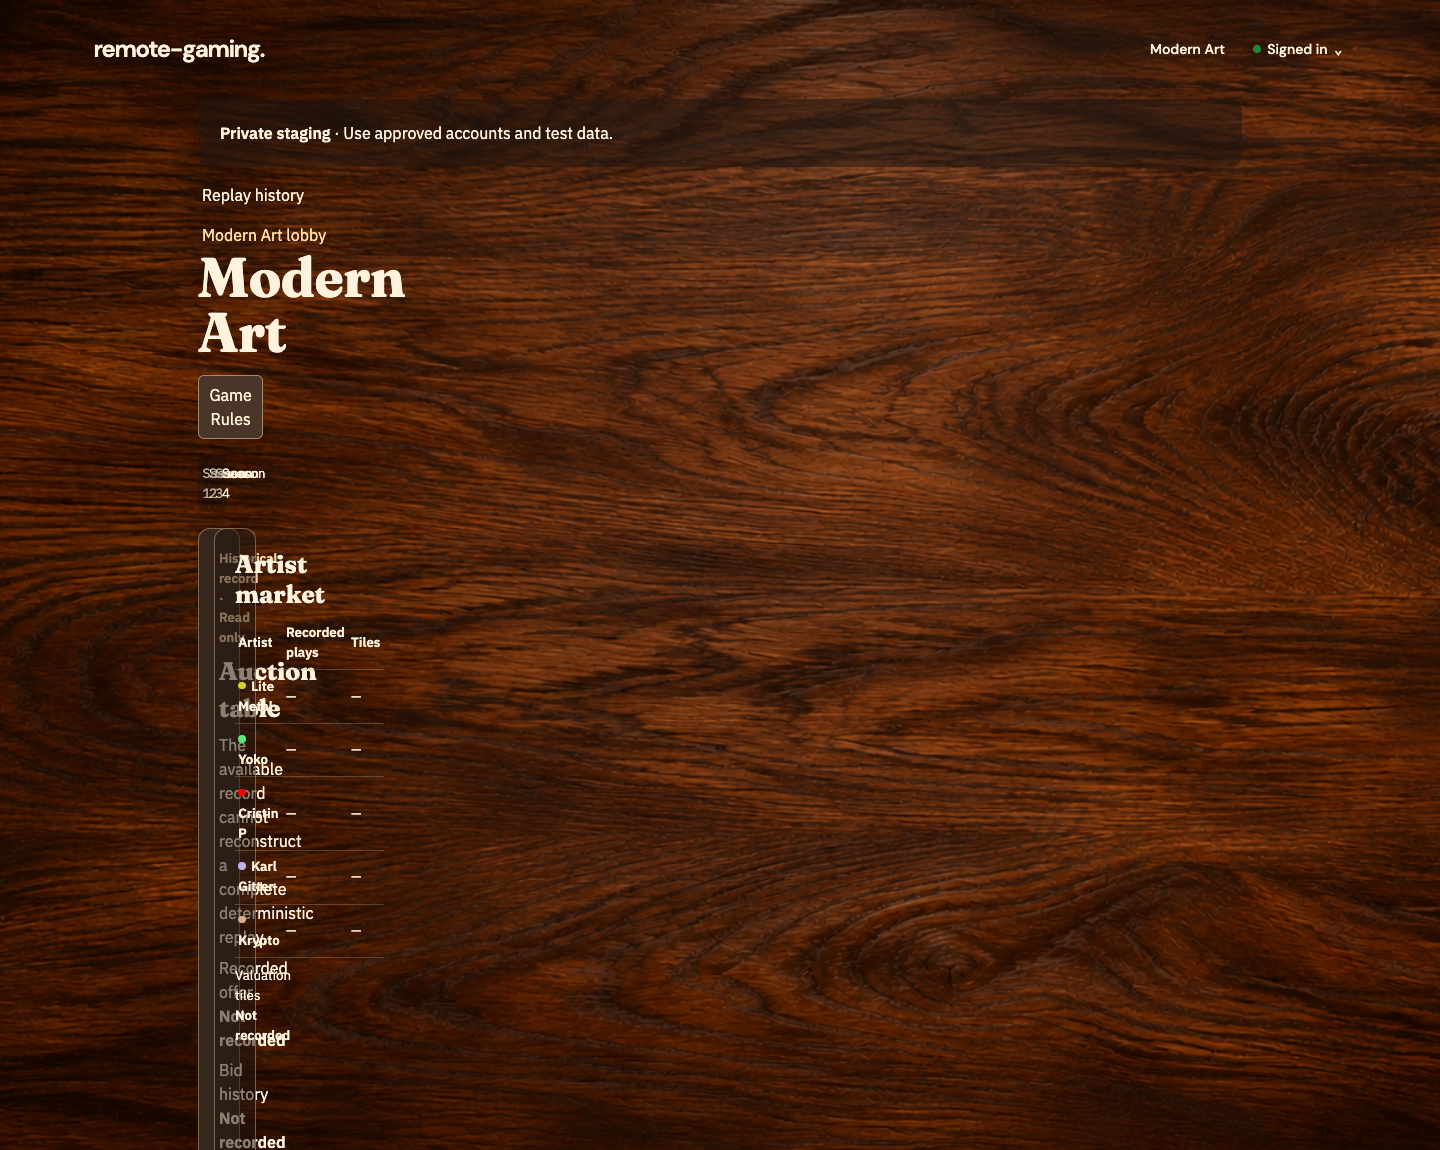
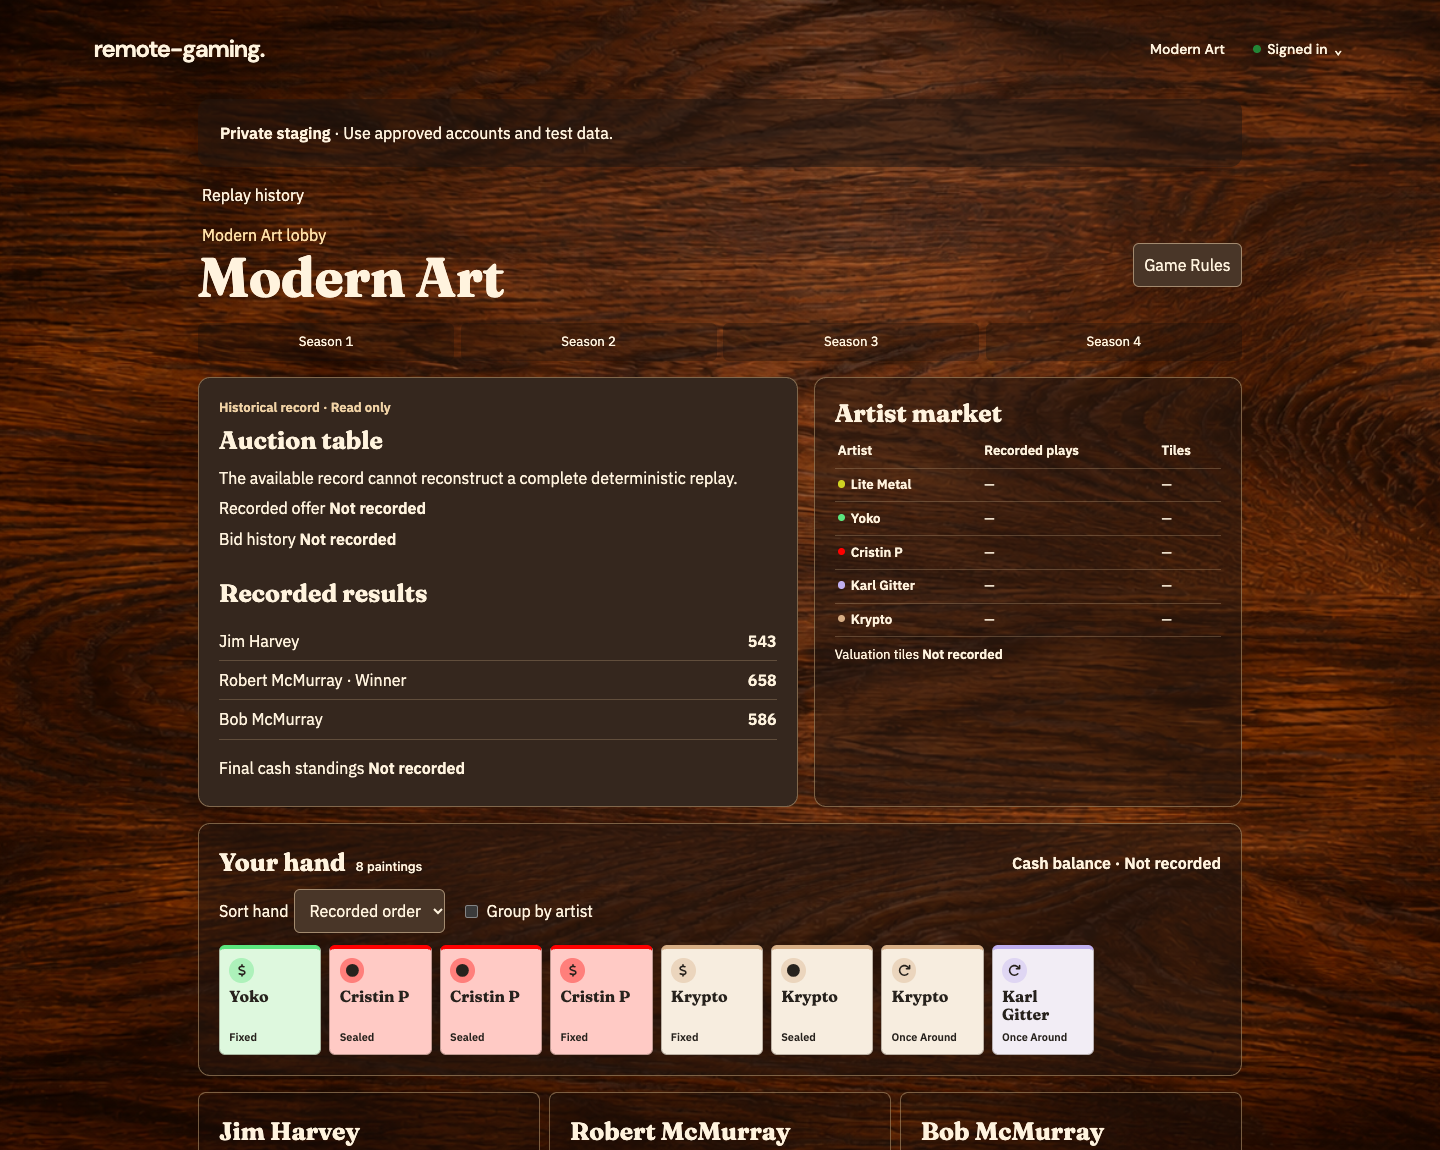
Preserve completed-game compatibility and the historical tabletop grid

diff --git a/app/frontend/components/ModernArtPractice.svelte b/app/frontend/components/ModernArtPractice.svelte
@@ -131,7 +131,7 @@
 {#if unavailable}
   <p class="panel" role="alert">This private table is no longer available. <a href={lobbyUrl}>{replay ? "Return to live table" : board.viewerSeat != null ? "Return to lobby" : "Return to practice tables"}</a>.</p>
 {:else}
-  <article class="practice tabletop" aria-label="Modern Art tabletop">
+  <article class="practice tabletop" class:complete={board.phase === "complete"} aria-label="Modern Art tabletop">
     <header class="heading">
       <div>
         {#if lobbyUrl}<a href={lobbyUrl}>{board.historical ? "Modern Art lobby" : replay ? "Live table" : board.viewerSeat != null ? "Modern Art lobby" : "Practice tables"}</a>{/if}
@@ -388,13 +388,13 @@
   .winner { font-size: 1.4rem; }
   .standings { list-style: none; margin: .6rem 0 1rem; padding: 0; }
   .standings li { display: flex; justify-content: space-between; padding: .45rem 0; border-bottom: 1px solid #ae93715c; }
-  .practice:has(.standings) { grid-template-areas: "title title" "seasons seasons" "auction market" "activity activity"; }
+  .practice.complete { grid-template-areas: "title title" "seasons seasons" "auction market" "activity activity"; }
   @media (max-width: 700px) {
     .practice {
       grid-template-columns: minmax(0, 1fr);
       grid-template-areas: "title" "seasons" "auction" "hand" "seats" "market" "activity";
     }
-    .practice:has(.standings) { grid-template-areas: "title" "seasons" "auction" "market" "activity"; }
+    .practice.complete { grid-template-areas: "title" "seasons" "auction" "market" "activity"; }
     .seats { grid-template-columns: 1fr; }
   }
 </style>

diff --git a/spec/requests/session_replays_spec.rb b/spec/requests/session_replays_spec.rb
@@ -119,9 +119,9 @@ RSpec.describe "Session replay", type: :request do
     get session_replay_path(legacy.uid)
     expect(response.body).to include("Replay unavailable", "practice-table-data")
     get game_session_path(legacy.uid), as: :json
-    expect(response.parsed_body).to include("historical" => true, "completeReplay" => false,
-      "legal" => {}, "actionHistory" => [])
-    expect(response.parsed_body.fetch("players")).not_to be_empty
+    board = response.parsed_body.dig("content", "session", "historicalTabletop")
+    expect(board).to include("historical" => true, "completeReplay" => false, "legal" => {}, "actionHistory" => [])
+    expect(board.fetch("players")).not_to be_empty
     get session_replay_path(legacy.uid), as: :json
     expect(response).to have_http_status(:unprocessable_entity)
     get session_replay_path(table.uid), params: { frame: 1_000_000 }, as: :json

diff --git a/app/controllers/session_replays_controller.rb b/app/controllers/session_replays_controller.rb
@@ -40,6 +40,7 @@ class SessionReplaysController < ApplicationController
     @replay[:tabletop] = Games::ModernArt::HistoricalTable.call(@replay, roster: roster,
       metadata: metadata.historical_metadata, frames: frames.take(cursor), complete: @replay.fetch(:available),
       viewer_id: @replay_session.players.find_by(user: current_user)&.id)
+    @replay[:sales]&.each { |sale| sale.delete(:buyerId) }
     @can_branch = !current_user.dummy? && BrowserIdentity.oidc_user(session) == current_user &&
       SessionFrame::Branch.allowed?(@replay_session, current_user)
     @replay[:branchable] = @can_branch && SessionFrame::Branch.supported?(view, current_user)

diff --git a/app/controllers/game_sessions_controller.rb b/app/controllers/game_sessions_controller.rb
@@ -57,7 +57,11 @@ class GameSessionsController < ApplicationController
       response.headers["Cache-Control"] = "private, no-store"
       representer = Representers::GameSession.new(@game_session, viewer: current_user)
       @historical_board = representer.historical_board
-      return render json: @historical_board if request.format.json?
+      if request.format.json?
+        return render json: { status: "success", content: {
+          session: session_view(@game_session).merge(historicalTabletop: @historical_board)
+        } }
+      end
       return render :historical
     end
     respond_to do |format|

diff --git a/app/models/game_session.rb b/app/models/game_session.rb
@@ -177,7 +177,10 @@ class GameSession < ApplicationRecord
   end
 
   def historical_modern_art?
-    game.key == "modern_art" && (completed? || !replayable?)
+    return false unless game.key == "modern_art"
+    return true unless replayable?
+
+    completed? && (completed_at < 2.months.ago || players.where(score: nil).none?)
   end
 
   def digital_modern_art
